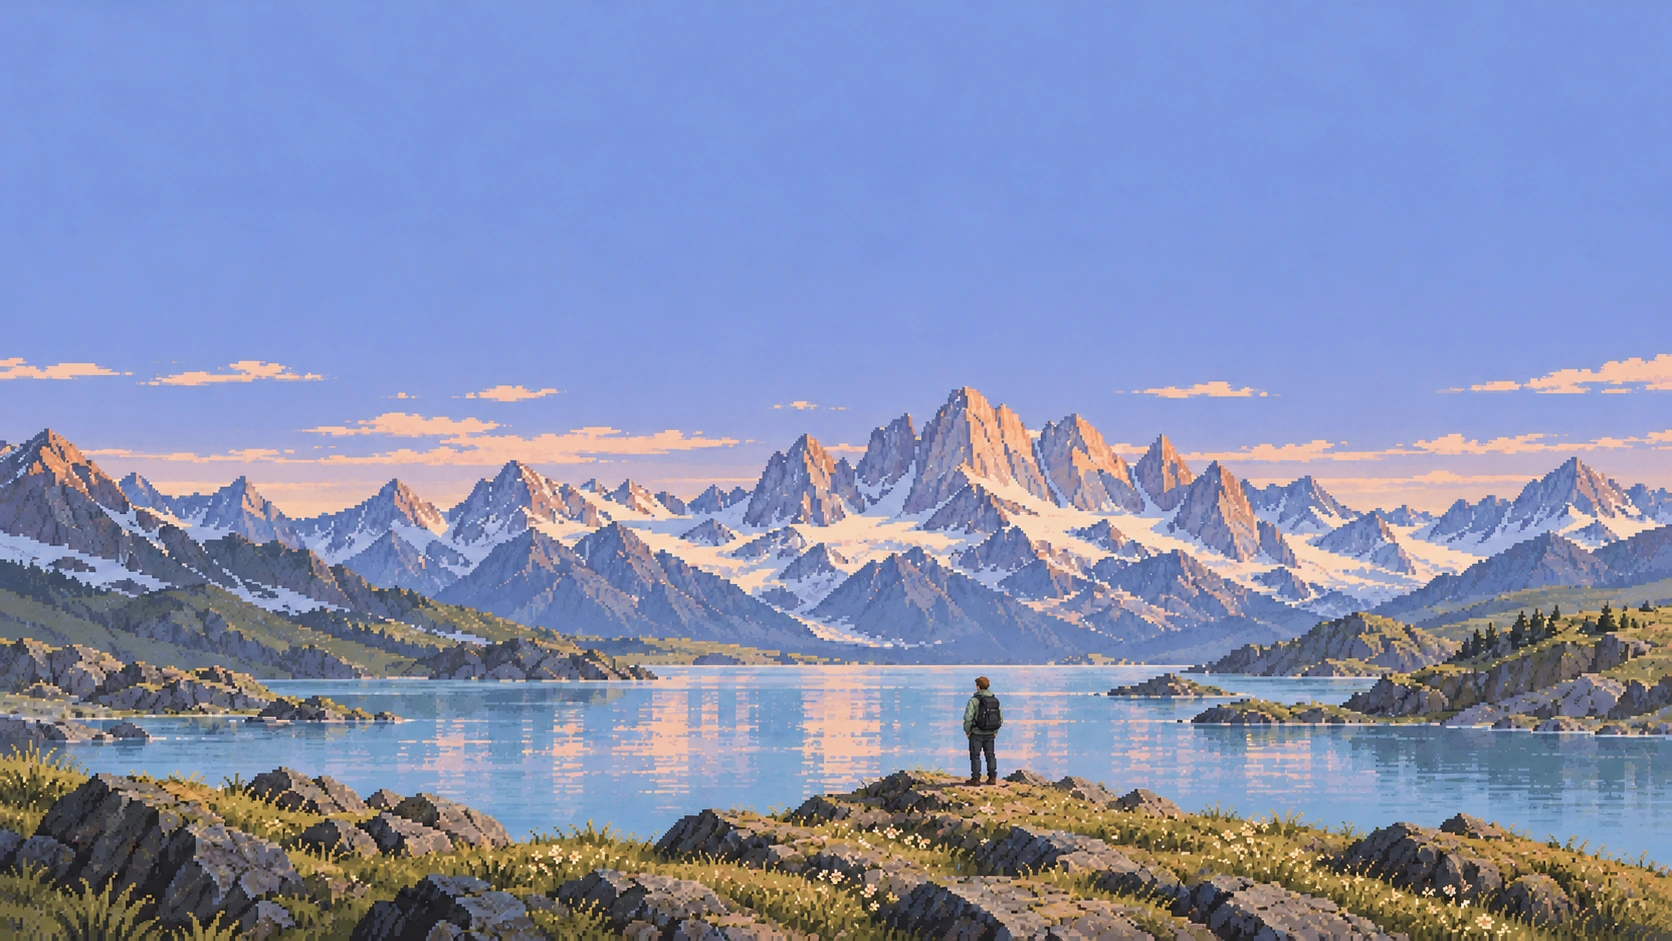
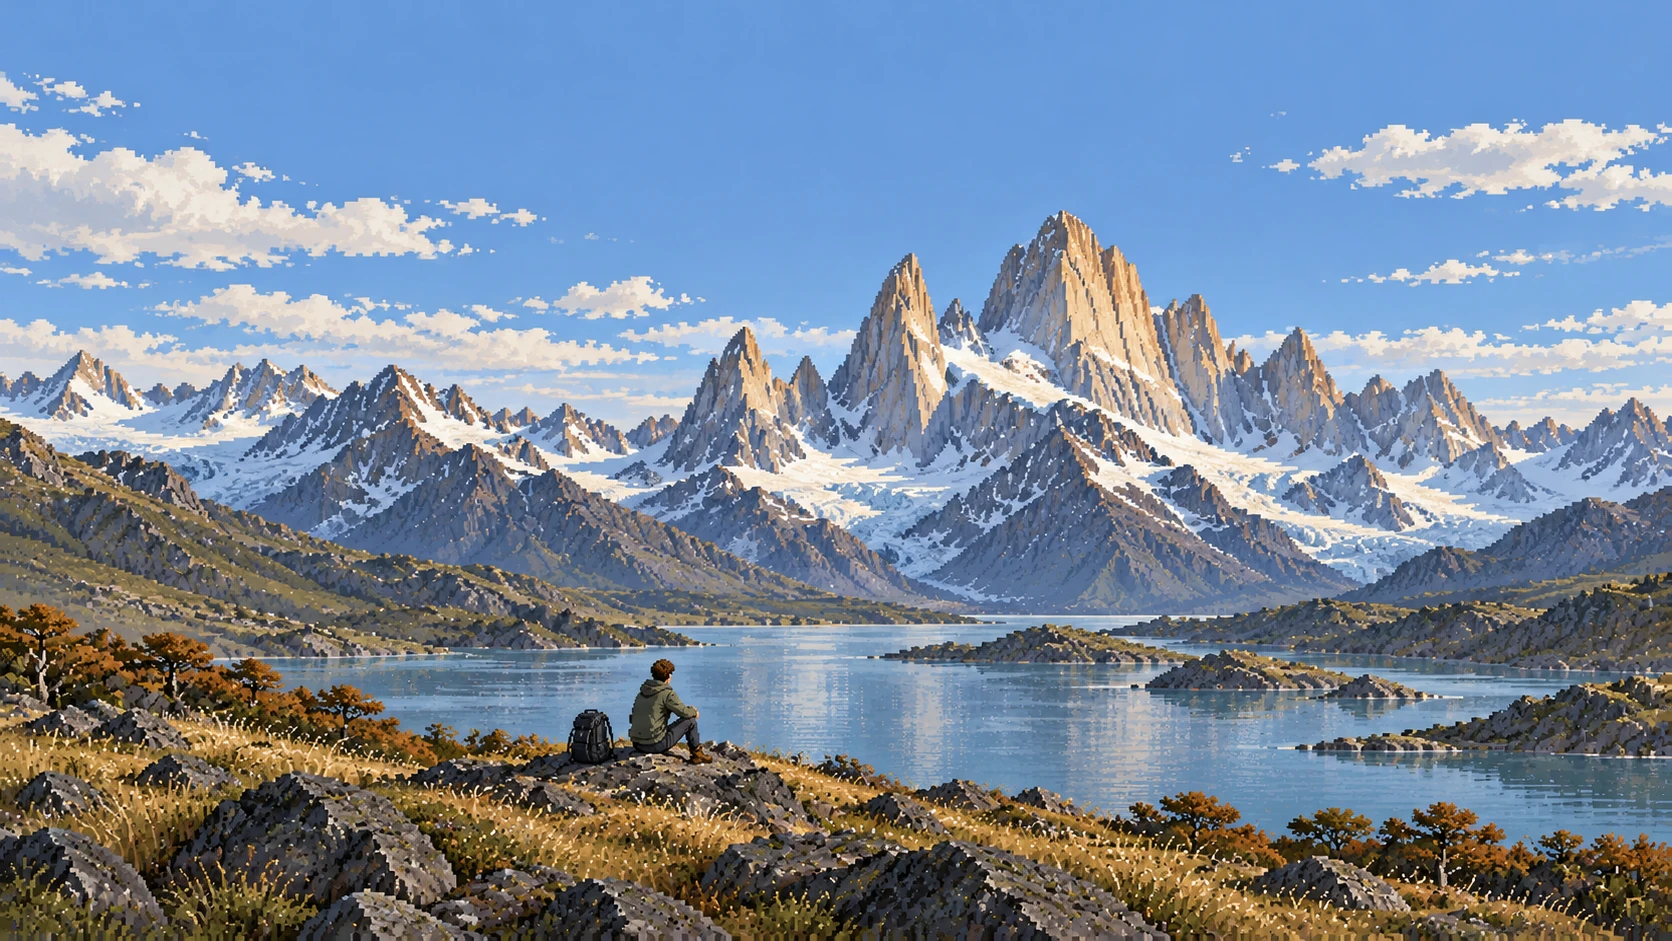
Replace the Software Factory landscape with a truer-colour version
Swap alpine-lake.webp for a new panorama with more natural colours, and
update its alt text and loading sky colour to match.

Claude-Session: https://claude.ai/code/session_01LAbdiSDweFDsyFULqCqyix

diff --git a/src/themes/contemplation/vista.ts b/src/themes/contemplation/vista.ts
@@ -60,9 +60,9 @@ export const VISTAS: Vista[] = [
   },
   {
     src: alpineLake,
-    alt: "Pixel art: a hiker on a rock above an alpine lake, below jagged peaks at dawn",
+    alt: "Pixel art: a hiker sitting on a rock above a glacial lake, below jagged granite peaks",
     x: "58%",
-    sky: "#7c9add",
+    sky: "#699cdb",
   },
   {
     src: larches,
